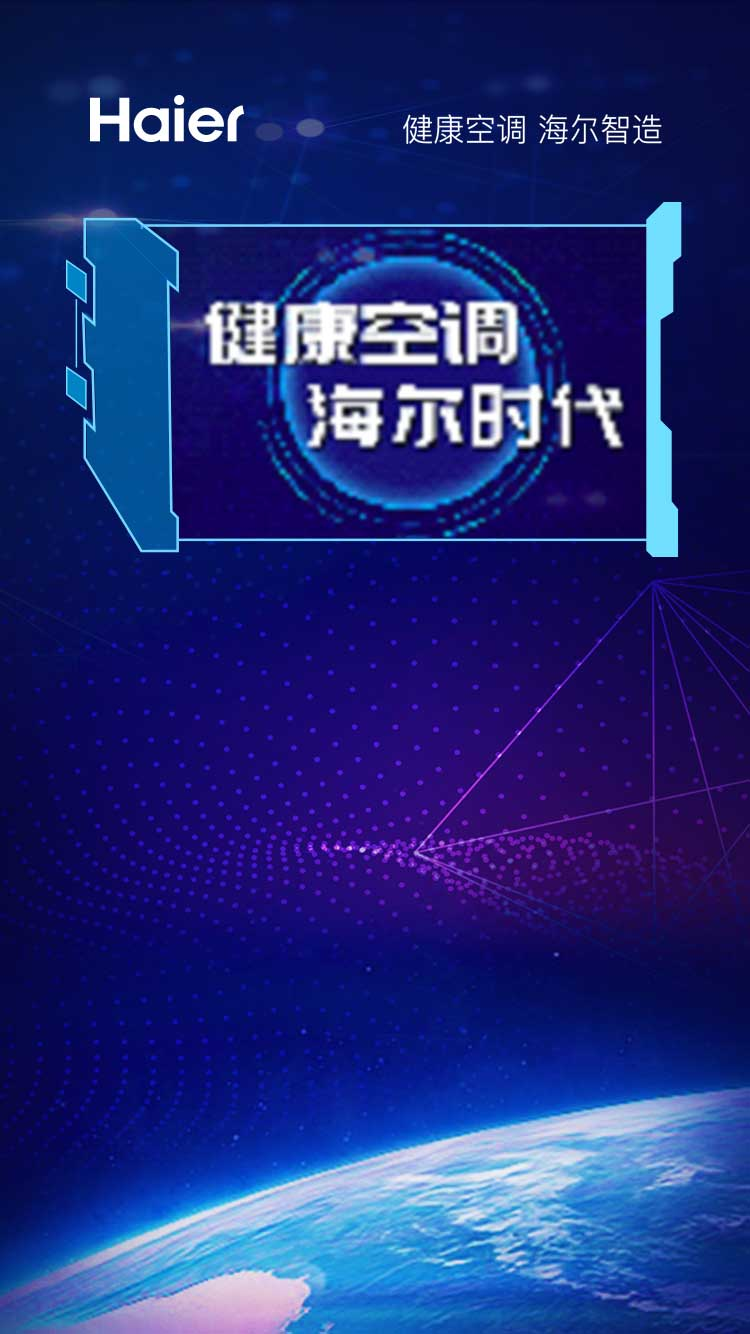
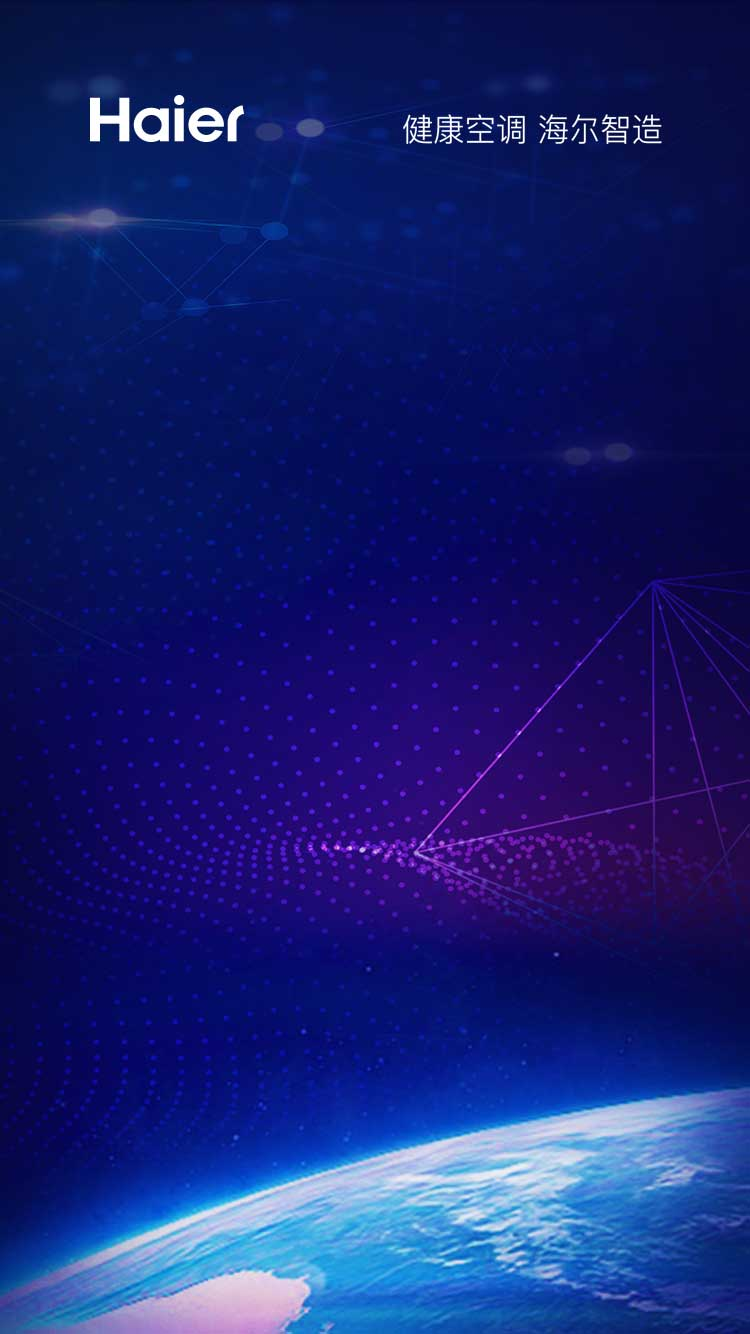
1233

Changed region(s): [[0.092, 0.1537, 0.92, 0.4303], [0.3373, 0.3996, 0.368, 0.4303]]

diff --git a/m.invitation2/index.html b/m.invitation2/index.html
@@ -36,7 +36,7 @@
 <body class="body">
     <div class="main">
         <div id="particles-js" class="main_bg"></div>
-        <div class="page page1" style="display: block">
+        <div class="page page1">
             <div class="page1_main">
                 <div class="loading_box">
                     <img src="images/loading.png" alt="" class="auto_img img">
@@ -51,8 +51,11 @@
                 <img src="images/halo_txt.png" alt="" class="auto_img">
                 <img src="images/halo.png" alt="" class="halo">
             </div>
-            <div class="page2_main" style="top: 54%">
-                <p style="text-align: center;color:#fff;font-size: 18px;">李某某</p>
+            <div class="page2_main" style="top: 53%">
+                <p style="text-align: center;color:#fff;font-size: 24px;">李某某</p>
+            </div>
+            <div class="page2_main" style="top: 89%">
+                <img src="images/page2/arrow.png" alt="" class="page2_arrow p2_arrow" style="padding-top: 0;">
             </div>
             <div class="btn_group">
                 <a href="javascript:;" class="jumpShare">
@@ -73,9 +76,6 @@
                 <img src="images/bot_btn_01.png" alt="" class="auto_img anm_pulse">
             </a>
         </div>
-
-
-
         <div class="page page3">
 
             <div class="page2_main" style="top: 57%;">
@@ -166,11 +166,19 @@
                         </div>
                     </div>
                 </div>
+                <p>滑动走进海尔时代</p>
                 <img src="images/page2/arrow.png" alt="" class="page2_arrow page2_arrow1 animated fadeInDown" style="animation-delay: 8s;">
             </div>
         </div>
+        <div class="page page4" style="display: block">
+            <div class="page2_main" style="top: 29%">
+                    <img src="images/halo_bg.png" alt="" class="auto_img">
 
-        <div class="page page4">
+                <div class="halo_box" style="top: 30%;position: absolute;left: 16%;">
+                    <img src="images/halo_txt.png" alt="" class="auto_img">
+                    <img src="images/halo.png" alt="" class="halo">
+                </div>
+            </div>
             <div class="page2_main" style="top: 70%">
                 <div class="txt_box page4_txt_box">
                     <div class="animated fadeInDown">
@@ -294,7 +302,7 @@
     <script src="js/particles.min.js"></script>
     <script src="js/app.js"></script>
     <script>
-      
+
         //点击按钮跳转下一个页面
         $(".nextShow").on('click', function () {
             if ($(this).parents(".page").next().hasClass("page3")) {
@@ -323,7 +331,7 @@
             $(".page").hide();
             $(this).parents(".page").next().addClass("animated fadeIn").show();
         });
-        
+
     </script>
 
 </body>

diff --git a/m.invitation2/js/main.js b/m.invitation2/js/main.js
@@ -1,29 +1,29 @@
-window.onload = function () {
-	var imgurl = ['images/page_bg_02.png', 'images/page_bg_03.png', 'images/page_bg_04.png', 'images/page_bg_05.png', 'images/page_bg_06.png', 'images/page_bg_07.png']
-	$("img").each(function (i, t) {
-		imgurl.push($("img").eq(i).attr("src"))
-	})
-	console.log(imgurl)
-	var callbacks = [];
-	imgLoader(imgurl, function (percentage) {
-		var i = callbacks.length;
-		callbacks.push(function () {
-			setTimeout(function () {
-				var percentT = percentage * 100;
-				if (percentage == 1) {
-					setTimeout(function () {
-						$('.page1').hide().next().show();
-					}, 100);
-				}
-				$('.loading_box .txt').html((parseInt(percentT)) + ' %');
-				callbacks[i + 1] && callbacks[i + 1]();
-			}, 100);
-		});
-		if (percentage == 1) {
-			callbacks[0]();
-		}
-	});
-}
+// window.onload = function () {
+// 	var imgurl = ['images/page_bg_02.png', 'images/page_bg_03.png', 'images/page_bg_04.png', 'images/page_bg_05.png', 'images/page_bg_06.png', 'images/page_bg_07.png']
+// 	$("img").each(function (i, t) {
+// 		imgurl.push($("img").eq(i).attr("src"))
+// 	})
+// 	console.log(imgurl)
+// 	var callbacks = [];
+// 	imgLoader(imgurl, function (percentage) {
+// 		var i = callbacks.length;
+// 		callbacks.push(function () {
+// 			setTimeout(function () {
+// 				var percentT = percentage * 100;
+// 				if (percentage == 1) {
+// 					setTimeout(function () {
+// 						$('.page1').hide().next().show();
+// 					}, 100);
+// 				}
+// 				$('.loading_box .txt').html((parseInt(percentT)) + ' %');
+// 				callbacks[i + 1] && callbacks[i + 1]();
+// 			}, 100);
+// 		});
+// 		if (percentage == 1) {
+// 			callbacks[0]();
+// 		}
+// 	});
+// }
 //input 输入后不页面不下来
 $("input").on('blur', function () {
 	alert(111)

diff --git a/m.invitation2/css/style.css b/m.invitation2/css/style.css
@@ -18,7 +18,7 @@ body {
 }
 .sjzhou_box > .sjzhou_txt_box .sjzhou_txt{
   display: flex;
-  align-items: center;
+  /* align-items: center; */
   border-left: 3px solid #71dfff;
   position: relative;
   padding: 2vw 0;
@@ -27,8 +27,8 @@ body {
   content: "";
   position: absolute;
   left: -8px;
-  top: 50%;
-  margin-top: -7px;
+  top: 8px;
+  /* margin-top: -7px; */
   width: 14px;
   height: 14px;
   border: 2px solid #19a2f9;
